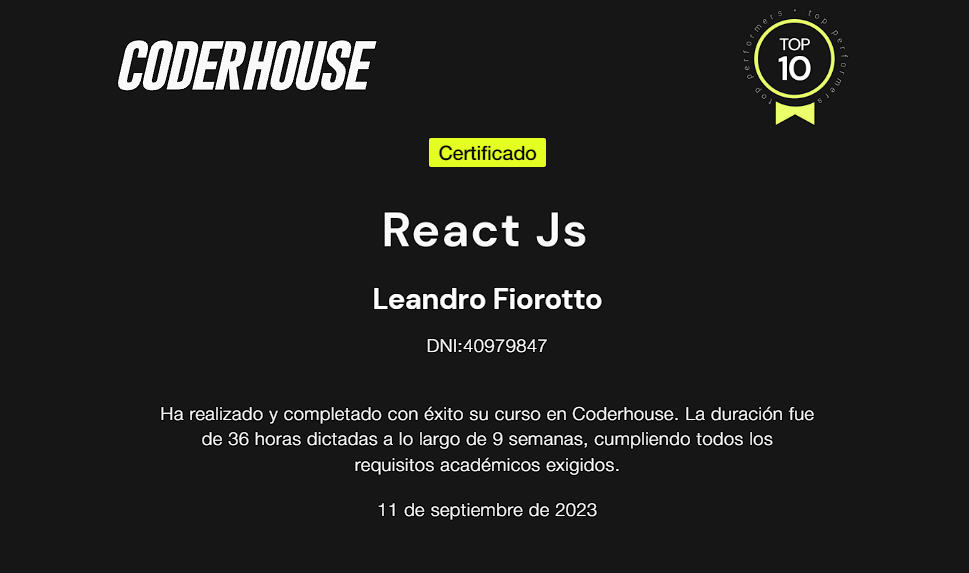
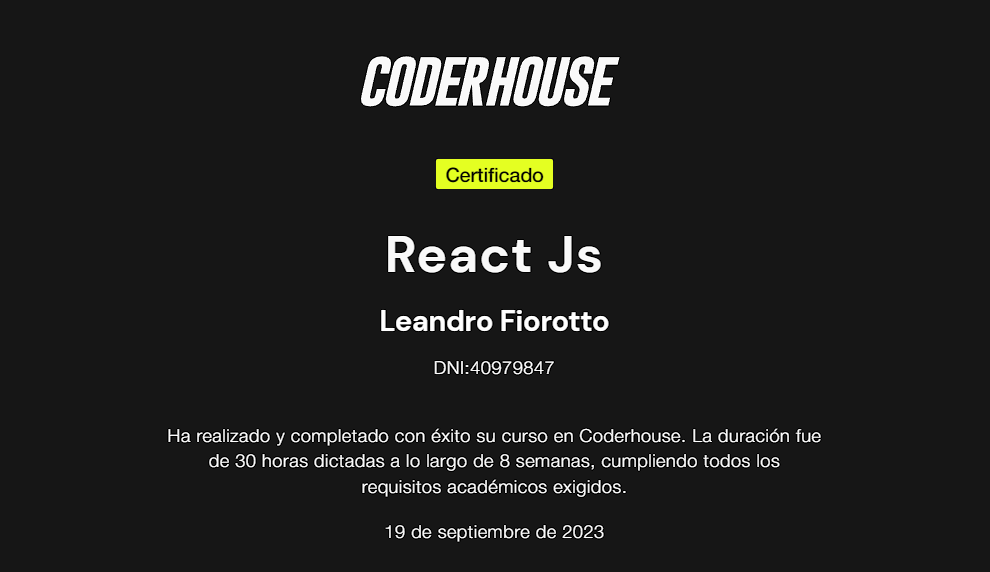
update certifications

diff --git a/src/components/certifications/Certifications.jsx b/src/components/certifications/Certifications.jsx
@@ -5,6 +5,8 @@ import IMG2 from "../../assets/JS.png";
 import IMG3 from "../../assets/react.png";
 import IMG5 from "../../assets/frontend.png"
 import React from "react";
+import IMG6 from "../../assets/frontend-coder.png";
+import IMG7 from "../../assets/react.png";
 
 // Función Portfolio
 const Certifications = () => {
@@ -21,12 +23,17 @@ const Certifications = () => {
     },
     {
       id: 3,
-      img: IMG3,
-      link: "https://www.coderhouse.com/certificados/651149f2dfa4926652b7535a?lang",
+      img: IMG6,
+      link: "https://www.coderhouse.com/certificados/653028f98da4042772268500?lang=es",
+    },
+    {
+      id: 4,
+      img: IMG7,
+      link: "https://www.coderhouse.com/certificados/653028f98da404fe872684e9?lang=es",
     },
   
     {
-      id: 4,
+      id: 5,
       img: IMG5,
     },
    
